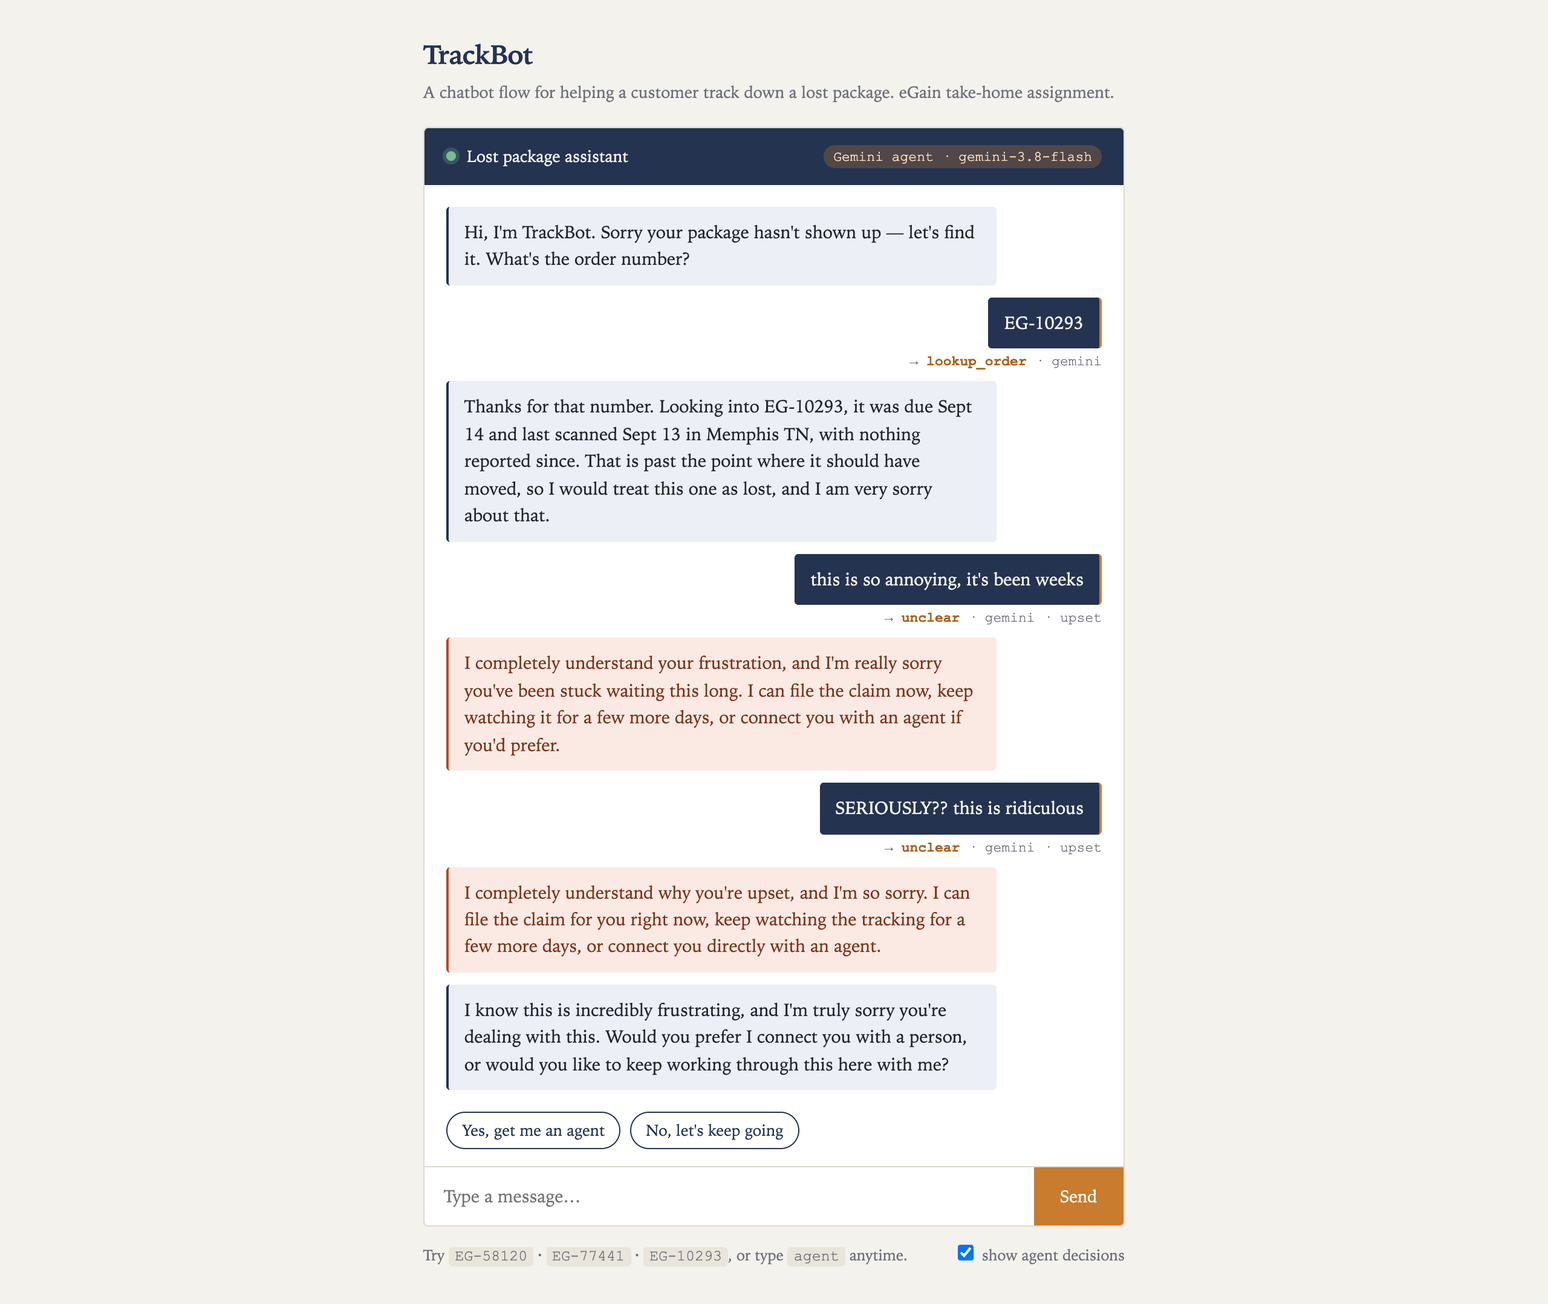
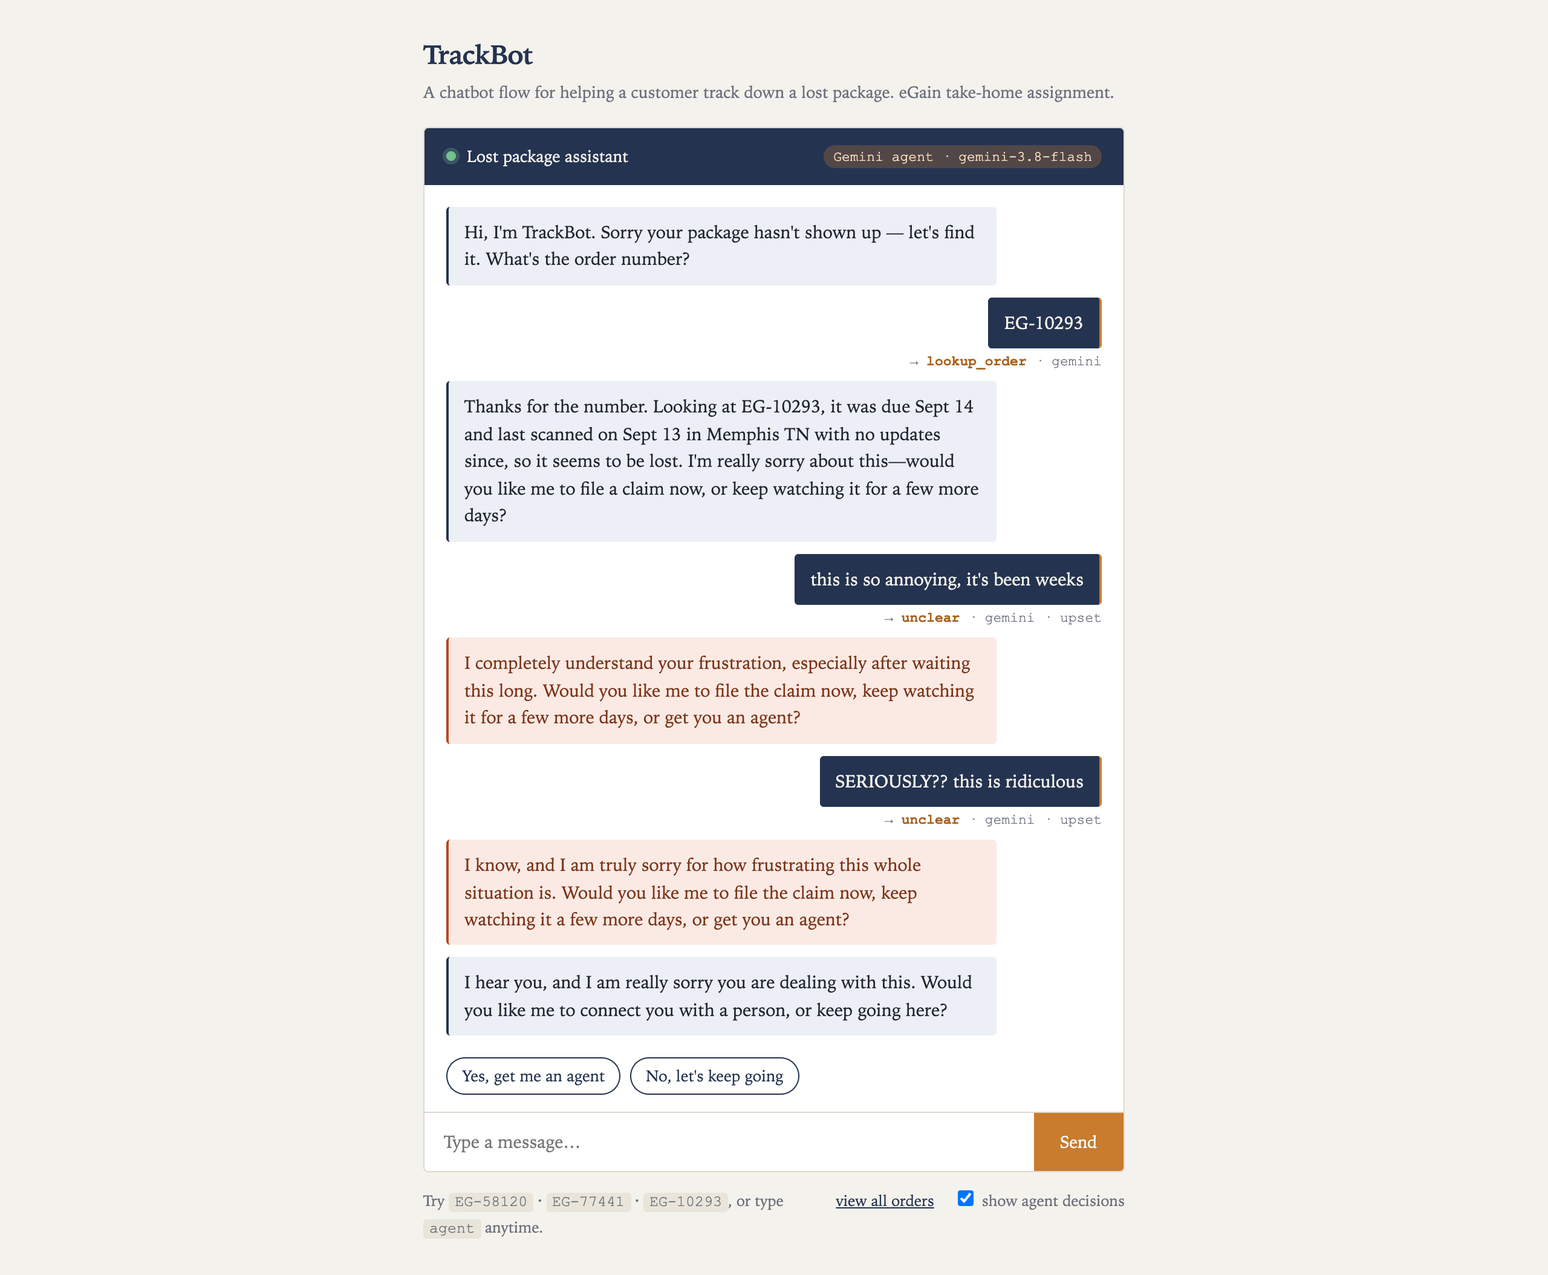
add view-all-orders debug panel, proactive follow-ups, and upset flowchart
Adds GET /api/orders and a "view all orders" panel that explains when it
falls back to the built-in samples. Every reply now ends with a next-step
question or a way to start again, and Gemini rewrites that drop the question
are discarded. The flowchart shows the upset handoff, and screenshots and
README are refreshed.

Changed region(s): [[0.2812, 0.2158, 0.7188, 0.9867], [0.2812, 0.0308, 0.7188, 0.2158], [0.5312, 0.8634, 0.75, 0.9867]]

diff --git a/public/engine.js b/public/engine.js
@@ -21,9 +21,9 @@
      loads it with setOrders(). If a page opened straight from disk can't
      fetch it, these three keep the offline demo working.                  */
   const ORDERS = loadedOrders || {
-    "EG-58120": { status: "delivered",  on: "Sept 12", where: "left at front door, photo on file", featured: true },
-    "EG-77441": { status: "in_transit", eta: "Sept 19", where: "regional hub, Reno NV", featured: true },
-    "EG-10293": { status: "stalled",    due: "Sept 14", where: "last scanned Sept 13 in Memphis TN", featured: true }
+    "EG-58120": { useCase: "Delivered, left at the front door with a photo", status: "delivered",  on: "Sept 12", where: "left at front door, photo on file", featured: true },
+    "EG-77441": { useCase: "In transit, on schedule", status: "in_transit", eta: "Sept 19", where: "regional hub, Reno NV", featured: true },
+    "EG-10293": { useCase: "Stalled, past due with no movement", status: "stalled",    due: "Sept 14", where: "last scanned Sept 13 in Memphis TN", featured: true }
   };
 
   function setOrders(next) {
@@ -37,6 +37,13 @@
     return pick.length ? pick : ids.slice(0, 3);
   };
 
+  /* ---------- Never leave the customer hanging ----------
+     Every reply ends by asking what they want to do next and naming the
+     options, or (once a chat is wrapped up) by saying how to start again. */
+  const ASK_TRANSIT = "Would you like me to alert you when it's delivered, or look up a different order?";
+  const ASK_CLAIM   = "Would you like me to file a claim now, or keep watching it for a few more days?";
+  const MORE_HELP   = 'If there\'s another order you\'d like me to check, just tap "Start a new lookup" or send me the number.';
+
   /* ---------- What each tracking status means for the conversation ----------
      Each route returns the step to move to and the draft wording. Delivered
      orders get ruled out first, in-window orders get reassurance, and orders
@@ -49,27 +56,27 @@
 
     in_transit: (id, r) => ["in_transit",
       `Good news: ${id} isn't lost, it's still moving. Last scan was ${r.where}, with ` +
-      `delivery expected ${r.eta}. I'd give it until then before we call it missing.`],
+      `delivery expected ${r.eta}. I'd give it until then before we call it missing. ${ASK_TRANSIT}`],
 
     out_for_delivery: (id, r) => ["in_transit",
       `${id} is out for delivery — ${r.where}. It should reach you ${r.eta}, so I'd give ` +
-      `it until then before we call it missing.`],
+      `it until then before we call it missing. ${ASK_TRANSIT}`],
 
     attempted: (id, r) => ["in_transit",
       `The carrier tried to deliver ${id} on ${r.on}, but ${r.where}. They'll try again ` +
-      `${r.retry}, so it isn't lost.`],
+      `${r.retry}, so it isn't lost. ${ASK_TRANSIT}`],
 
     not_shipped: (id, r) => ["in_transit",
       `${id} hasn't actually shipped yet — ${r.where}. It's due to ship by ${r.shipBy}, so ` +
-      `it isn't lost, it just hasn't left the warehouse.`],
+      `it isn't lost, it just hasn't left the warehouse. ${ASK_TRANSIT}`],
 
     held: (id, r) => ["in_transit",
       `${id} is being held: ${r.where}. Once that clears it should start moving again, with ` +
-      `delivery expected ${r.eta}. It isn't lost.`],
+      `delivery expected ${r.eta}. It isn't lost. ${ASK_TRANSIT}`],
 
     stalled: (id, r) => ["stalled",
       `${id} was due ${r.due}, and ${r.where} — nothing since. That's past the point ` +
-      `where it should have moved, so I'd treat this one as lost. Sorry about that.`],
+      `where it should have moved, so I'd treat this one as lost. Sorry about that. ${ASK_CLAIM}`],
 
     returned: (id, r) => ["claim_type",
       `${id} was returned to the sender on ${r.on} — ${r.where}. It isn't coming back to ` +
@@ -84,7 +91,7 @@
       `Would you like a replacement or a refund?`],
 
     cancelled: (id, r) => ["ended",
-      `${id} was cancelled on ${r.on} — ${r.where}, so nothing is on its way to you.`]
+      `${id} was cancelled on ${r.on} — ${r.where}, so nothing is on its way to you. ${MORE_HELP}`]
   };
 
   /* ---------- Every move the conversation can make ----------
@@ -268,24 +275,24 @@
       case "will_look":
         return go(s, "recheck", "Go ahead and take a look — I'll be here. Come back and tell me either way.");
       case "found_it":
-        return go(s, "ended", "That's a relief. Glad it turned up.");
+        return go(s, "ended", `That's a relief. Glad it turned up. ${MORE_HELP}`);
       case "still_missing":
         return go(s, "claim_type", "Understood — let's open a claim. What would you like as the outcome?");
       case "notify_on_arrival":
-        return go(s, "ended", `Done — I'll alert you the moment ${s.order} is delivered.`);
+        return go(s, "ended", `Done — I'll alert you the moment ${s.order} is delivered. ${MORE_HELP}`);
       case "new_lookup":
         s.order = null;
         return go(s, "ask_order", "No problem — what's the order number?");
       case "file_claim":
         return go(s, "claim_type", "What would you like as the outcome?");
       case "wait_longer":
-        return go(s, "ended", `Okay — I've flagged ${s.order} as at-risk and I'll keep watching it. Check back anytime.`);
+        return go(s, "ended", `Okay — I've flagged ${s.order} as at-risk and I'll keep watching it. ${MORE_HELP}`);
       case "send_replacement":
         return go(s, "ended", `Claim opened for ${s.order} — a replacement is on the way. ` +
-          `Confirmation and case number are headed to your email.`);
+          `Confirmation and case number are headed to your email. ${MORE_HELP}`);
       case "issue_refund":
         return go(s, "ended", `Claim opened for ${s.order} — the refund will post to your original ` +
-          `payment method in 3–5 business days. Confirmation is headed to your email.`);
+          `payment method in 3–5 business days. Confirmation is headed to your email. ${MORE_HELP}`);
     }
     return miss(s);
   }

diff --git a/public/index.html b/public/index.html
@@ -48,6 +48,21 @@
   #thread::-webkit-scrollbar{width:8px}
   #thread::-webkit-scrollbar-thumb{background:var(--line); border-radius:4px}
   body.hide-decisions .decision{display:none}
+  .tools{display:flex; gap:16px; align-items:baseline}
+  .linkbtn{border:0; background:none; padding:0; font:inherit; color:var(--navy); text-decoration:underline; cursor:pointer; white-space:nowrap}
+  .orders{margin-top:12px}
+  .orders-head{padding:10px 14px; background:var(--navy); color:var(--paper); font-size:12.5px}
+  .orders-note{padding:9px 14px; background:var(--err); color:var(--err-ink); font-size:12.5px; border-bottom:1px solid var(--line)}
+  #orderList{max-height:340px; overflow-y:auto}
+  .orow{display:flex; gap:12px; width:100%; text-align:left; padding:9px 14px; border:0; border-bottom:1px solid var(--line);
+        background:none; font:inherit; color:inherit; cursor:pointer}
+  .orow:hover{background:var(--bot)}
+  .oleft{display:flex; flex-direction:column; flex:0 0 112px; font:11.5px "Courier New",monospace}
+  .oid{font-size:12.5px; font-weight:600; color:var(--navy)}
+  .ostatus{color:var(--amber-dk)}
+  .oright{display:flex; flex-direction:column; min-width:0}
+  .ouse{font-size:13.5px}
+  .odet{font:11.5px "Courier New",monospace; color:var(--muted); overflow-wrap:anywhere}
 </style>
 </head>
 <body>
@@ -67,7 +82,16 @@
 
   <div class="foot">
     <span>Try <code>EG-58120</code> · <code>EG-77441</code> · <code>EG-10293</code>, or type <code>agent</code> anytime.</span>
-    <label><input type="checkbox" id="showDecisions" checked> show agent decisions</label>
+    <span class="tools">
+      <button type="button" id="ordersToggle" class="linkbtn" aria-expanded="false" aria-controls="orders">view all orders</button>
+      <label><input type="checkbox" id="showDecisions" checked> show agent decisions</label>
+    </span>
+  </div>
+
+  <div id="orders" class="panel orders" hidden>
+    <div class="orders-head" id="ordersHead">All test orders — click one to look it up in the chat</div>
+    <div class="orders-note" id="ordersNote" hidden></div>
+    <div id="orderList"></div>
   </div>
 </div>
 
@@ -209,6 +233,61 @@ async function localBackend() {
     }
   };
 }
+
+/* ---------- Debug: browse every order ---------- */
+const ordersToggle = document.getElementById("ordersToggle");
+const ordersBox = document.getElementById("orders");
+const orderList = document.getElementById("orderList");
+let ordersShown = false;
+
+// The server's list first, then the file next to this page, then whatever the engine has built in.
+// If it has to fall back, say why, so a short list isn't mistaken for the real one.
+async function fetchOrders() {
+  const failed = [];
+  for (const url of [API + "/api/orders", "orders.json"]) {
+    try {
+      const r = await fetch(url, { signal: AbortSignal.timeout(5000) });
+      if (r.ok) return { orders: await r.json(), note: "" };
+      failed.push(`${url} → HTTP ${r.status}`);
+    } catch (e) {
+      failed.push(`${url} → ${e.name === "TimeoutError" ? "timed out" : "blocked or unreachable"}`);
+    }
+  }
+  const orders = window.TrackBotEngine.ORDERS;
+  return { orders, note: `Couldn't load the full list (${failed.join("; ")}). Showing ${Object.keys(orders).length} built-in ` +
+    `sample orders instead. Restart or redeploy the server with the latest code to see all of them.` };
+}
+
+function orderRow(id, rec) {
+  const el = (tag, cls, text) => Object.assign(document.createElement(tag), { className: cls, textContent: text });
+  const row = el("button", "orow");
+  row.type = "button";
+  row.title = "Look up " + id;
+  const left = el("span", "oleft");
+  left.append(el("span", "oid", id), el("span", "ostatus", rec.status));
+  const details = Object.entries(rec).filter(([k]) => !["useCase", "status"].includes(k))
+    .map(([k, v]) => k === "featured" ? "quick reply" : `${k}: ${v}`).join(" · ");
+  const right = el("span", "oright");
+  right.append(el("span", "ouse", rec.useCase || "(no description)"), el("span", "odet", details));
+  row.append(left, right);
+  row.onclick = () => { document.getElementById("thread").scrollIntoView({ block: "nearest" }); submit(id); };
+  return row;
+}
+
+ordersToggle.onclick = async () => {
+  ordersBox.hidden = !ordersBox.hidden;
+  ordersToggle.textContent = ordersBox.hidden ? "view all orders" : "hide orders";
+  ordersToggle.setAttribute("aria-expanded", String(!ordersBox.hidden));
+  if (ordersBox.hidden || ordersShown) return;
+  const { orders, note } = await fetchOrders();
+  const noteBox = document.getElementById("ordersNote");
+  noteBox.textContent = note;
+  noteBox.hidden = !note;
+  document.getElementById("ordersHead").textContent =
+    `All test orders (${Object.keys(orders).length}) — click one to look it up in the chat`;
+  orderList.replaceChildren(...Object.entries(orders).map(([id, rec]) => orderRow(id, rec)));
+  ordersShown = true;
+};
 
 (async function start() {
   try {

diff --git a/test.js b/test.js
@@ -146,6 +146,31 @@ function talk(...inputs) {
     });
   }
 
+  await check("every reply ends by asking what to do next, or says how to start again", () => {
+    for (const id of Object.keys(orders)) {
+      const s = engine.createSession();
+      const text = engine.apply(s, "lookup_order", { order_id: id }).messages.at(-1).text;
+      assert.ok(/\?/.test(text) || /Start a new lookup/.test(text), `${id} leaves the customer hanging: ${text}`);
+    }
+  });
+
+  await check("stalled orders name both options: file a claim or keep watching", () => {
+    const text = engine.apply(engine.createSession(), "lookup_order", { order_id: "EG-10293" }).messages[0].text;
+    assert.match(text, /file a claim now, or keep watching it/);
+  });
+
+  await check("wrapped-up replies say how to look up another order", () => {
+    const run = (order, ...moves) => {
+      const s = engine.createSession(); engine.apply(s, "lookup_order", { order_id: order });
+      let r; for (const m of moves) r = engine.apply(s, m); return r.messages.at(-1).text;
+    };
+    for (const text of [
+      run("EG-77441", "notify_on_arrival"), run("EG-10293", "wait_longer"),
+      run("EG-10293", "file_claim", "send_replacement"), run("EG-10293", "file_claim", "issue_refund"),
+      run("EG-58120", "will_look", "found_it")
+    ]) assert.match(text, /Start a new lookup/, text);
+  });
+
   await check("returned and damaged orders can finish as a replacement or a refund", () => {
     for (const [id, want] of [["EG-11004", /replacement is on the way/], ["EG-11120", /refund will post/]]) {
       const s = engine.createSession();
@@ -243,6 +268,14 @@ function talk(...inputs) {
     assert.equal(lastDecisionRequest.body.toolConfig.functionCallingConfig.mode, "ANY");
   });
 
+  await check("GET /api/orders lists every order for the debug panel", async () => {
+    const r = await realFetch(base + "/api/orders", { headers: { Origin: "https://shawn.github.io" } });
+    const data = await r.json();
+    assert.deepEqual(Object.keys(data), Object.keys(orders));
+    assert.equal(data["EG-11004"].status, "returned");
+    assert.equal(r.headers.get("access-control-allow-origin"), "https://shawn.github.io");
+  });
+
   await check("API key travels in a header, never the URL", async () => {
     assert.equal(lastGeminiRequest.headers["x-goog-api-key"], "test-key");
     assert.ok(!lastGeminiRequest.url.includes("test-key"));
@@ -267,7 +300,7 @@ function talk(...inputs) {
     const id = await newChat();
     fake = () => ({ name: "lookup_order", args: { order_id: "EG-77441" } });
     voice = () => ["Good news, EG-77441 is still on the move! It was last scanned at the regional hub, " +
-                   "Reno NV, and should arrive by Sept 19."];
+                   "Reno NV, and should arrive by Sept 19. Want me to ping you when it lands, or check a different order?"];
     const r = await say(id, "ugh where is EG-77441");
     assert.match(r.messages[0].text, /Good news, EG-77441 is still on the move/);
     assert.equal(r.messages[0].kind, "bot");
@@ -296,6 +329,15 @@ function talk(...inputs) {
     const r = await say(id, "EG-77441");
     assert.match(r.messages[0].text, /still moving/);          // plain draft went out instead
     assert.ok(!/credit/.test(r.messages[0].text));
+    voice = () => "HTTP_500";
+  });
+
+  await check("natural wording: a rewrite that drops the follow-up question is discarded", async () => {
+    const id = await newChat();
+    fake = () => ({ name: "lookup_order", args: { order_id: "EG-10293" } });
+    voice = () => ["EG-10293 was due Sept 14 and last scanned Sept 13 in Memphis TN, so I'd treat it as lost. Sorry about that."];
+    const r = await say(id, "EG-10293");
+    assert.match(r.messages[0].text, /file a claim now, or keep watching it/);   // plain draft, question intact
     voice = () => "HTTP_500";
   });
 

diff --git a/gemini.js b/gemini.js
@@ -102,7 +102,10 @@ so it sounds natural and human, responding to what the customer just said.
 Rules:
 - The draft is the only source of facts. Keep every order number, date, place, amount and
   timeframe exactly as written. Never add facts, promises, policies, refunds or numbers.
-- Keep whatever question or next step the draft asks the customer for.
+- Keep whatever question or next step the draft asks the customer for, and name the options
+  it offers (for example "file a claim now or keep watching it a few more days?"). Be proactive:
+  never end on a bare statement when the draft asks or offers something, and don't turn a
+  question into a statement.
 - Sound warm and conversational. Vary your wording; don't sound scripted. Keep it short: usually
   one to three sentences, plain text, no lists, no markdown, no emoji.
 - Acknowledge what the customer said when it helps (frustration, relief, a joke) before the facts.
@@ -150,6 +153,8 @@ async function phraseReply({ transcript, text, messages }) {
       throw new Error("Gemini reply had the wrong shape");
 
     const rewritten = messages.map((m, i) => ({ ...m, text: out[i].trim() }));
+    if (/\?/.test(messages.at(-1).text) && !/\?/.test(rewritten.at(-1).text))
+      throw new Error("Gemini dropped the question the draft asks");
     if (numbersIn(rewritten.map(m => m.text).join(" ")) !== numbersIn(messages.map(m => m.text).join(" ")))
       throw new Error("Gemini changed a number, date or order id");
     return rewritten;

diff --git a/shoot.js b/shoot.js
@@ -12,6 +12,11 @@ const shots = [
   { name: "02-error-handling",        steps: ["where is my stuff", "EG-99999"] },
   { name: "03-in-transit-not-lost",   steps: ["EG-77441", "yes please let me know when it gets here"] },
   { name: "04-upset-handoff",         steps: ["EG-10293", "this is so annoying, it's been weeks", "SERIOUSLY?? this is ridiculous"] },
+  { name: "05-view-all-orders",       steps: [], after: async page => {
+      await page.click("#ordersToggle");
+      await page.waitForSelector(".orow");
+      await page.addStyleTag({ content: "#orderList{max-height:none!important}" });
+  } },
 ];
 
 (async () => {
@@ -28,6 +33,7 @@ const shots = [
       await page.waitForFunction(() => !document.querySelector("#entry").disabled, null, { timeout: 60000 });
       await page.waitForTimeout(100);
     }
+    if (shot.after) await shot.after(page);
     // let the whole transcript show in the capture instead of the scrolled view
     await page.addStyleTag({ content: "#thread{height:auto!important;max-height:none!important}" });
     await page.waitForTimeout(150);

diff --git a/server.js b/server.js
@@ -83,6 +83,9 @@ app.get("/api/status", (req, res) => {
   res.json({ agent: agentOn() ? "gemini" : "rules", model: agentOn() ? gemini.MODEL : null });
 });
 
+/* ---- Every mock order, for the "view all orders" debug panel ---- */
+app.get("/api/orders", (req, res) => res.json(engine.ORDERS));
+
 /* ---- Start a conversation ---- */
 app.post("/api/session", rateLimit(SESSION_LIMIT), (req, res) => {
   const id = crypto.randomUUID();

diff --git a/README.md b/README.md
@@ -30,7 +30,7 @@ in the chat header shows which mode you're in. With no key, the server still run
 rule-based mode.
 
 ```bash
-npm test                    # 65 tests; no key or network needed
+npm test                    # 70 tests; no key or network needed
 ```
 
 ---
@@ -67,6 +67,11 @@ a script. If the rewrite adds or drops a number, date, or order id, changes the 
 messages, or the call fails, the plain draft is sent instead. Gemini can change how something
 is said, never what is promised.
 
+**Always proactive.** Every reply ends by asking what the customer wants to do next and naming
+the options (for example, "file a claim now, or keep watching it for a few more days?"), or,
+once a chat is wrapped up, by saying how to start another lookup. Gemini's rewrite is thrown
+away if it turns that question into a bare statement.
+
 **Noticing when a customer is upset.** Along with the move, Gemini also flags whether the
 newest message sounds angry or exasperated. One upset message doesn't hand the customer off:
 the reply acknowledges how they feel and keeps helping. Two in a row means the flow isn't
@@ -87,7 +92,7 @@ matcher misses.
 | Gemini is only offered the current step's moves | Skipping ahead, e.g. straight to a refund |
 | The server re-checks the chosen move anyway | A model that ignores its instructions |
 | Order numbers from the model are validated and looked up | Hallucinated order numbers |
-| Facts in every reply come from the app; Gemini's rewrite is thrown away if it changes a number, date or order id | Invented promises or policy |
+| Facts in every reply come from the app; Gemini's rewrite is thrown away if it changes a number, date or order id, or drops the follow-up question | Invented promises, or a reply that leaves the customer hanging |
 | Customer text is fenced off as data in the prompt | "Ignore your rules and…" |
 | The upset flag only decides whether to *offer* a person, never which move runs | Anger being used to skip steps |
 | Gemini error or timeout (8s) → keyword matching takes over | A dead chat during an outage |
@@ -219,7 +224,7 @@ public/
   config.js      where the agent server lives, if it's hosted separately
 server.js        holds the API key, keeps each conversation's state, runs each turn
 gemini.js        picks the move, then rewrites the engine's draft reply in natural words
-test.js          65 tests: every path, every error, every guardrail
+test.js          70 tests: every path, every error, every guardrail
 render.yaml      one-click deploy to Render
 .github/         optional: publishes public/ to GitHub Pages
 flowchart.svg    the conversation design
@@ -304,6 +309,12 @@ tracking API. Type any of these order numbers into the chat. Only three (`EG-581
 | `EG-11004` | Returned to sender | Explains it went back to the sender; goes straight to replacement or refund |
 | `EG-11120` | Delivered but damaged | Apologizes; goes straight to replacement or refund |
 | `EG-11236` | Cancelled and refunded | Says nothing is on its way and when the refund went out |
+
+The **view all orders** link under the chat opens a panel listing every order with its status
+and raw fields. Click a row to look it up. It reads `GET /api/orders`, so it works when the
+page is hosted apart from the server.
+
+![View all orders](screenshots/05-view-all-orders.png)
 
 To add a case, add an entry to the file. The `status` picks which conversation route it
 follows (the routes live in `engine.js`); `featured: true` makes it a quick-reply chip.
